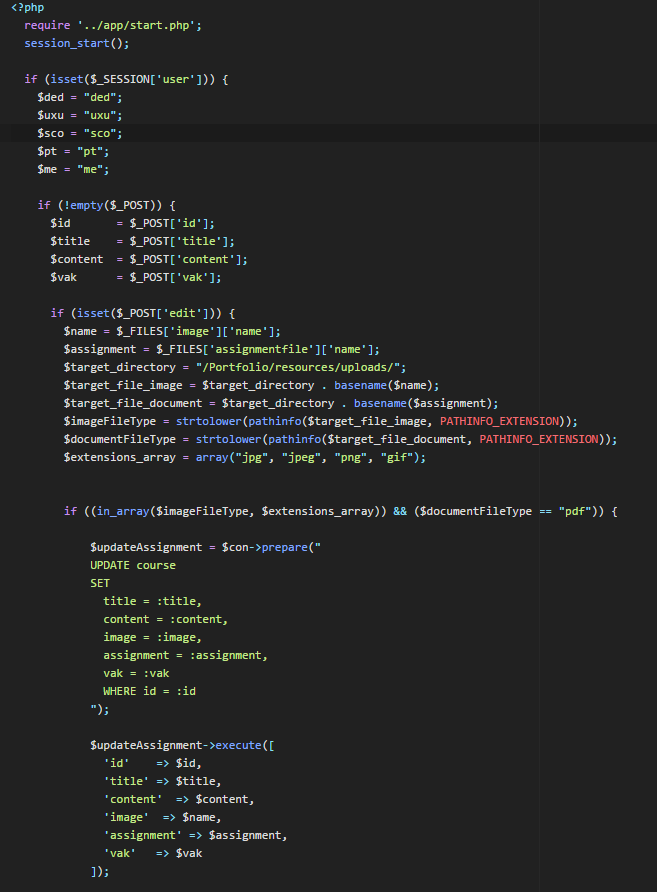
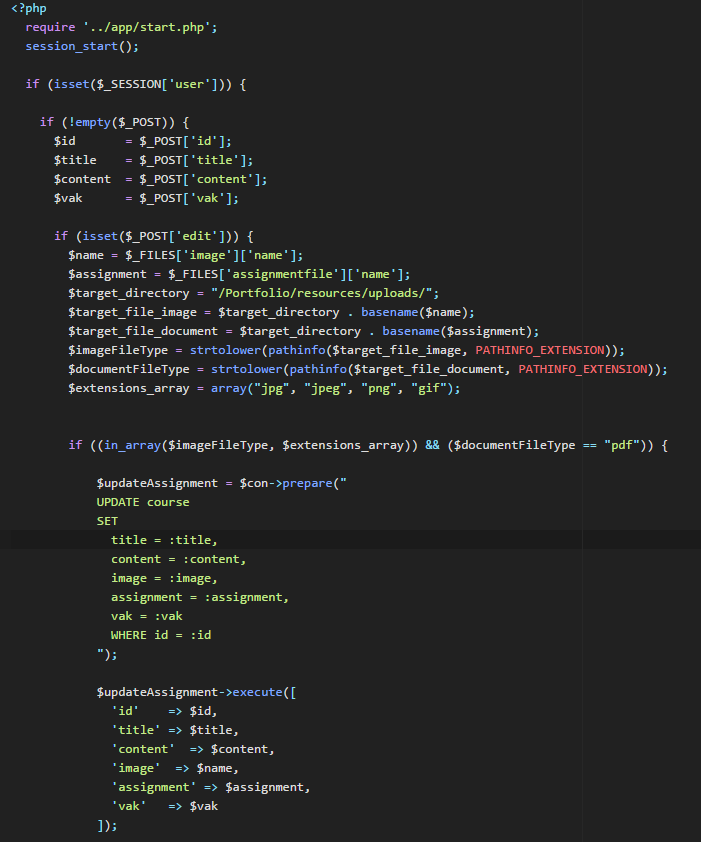
DED edits and minor changes

Changed region(s): [[0.0304, 0.0, 0.9437, 0.9881]]

diff --git a/stylesheets/style.css b/stylesheets/style.css
@@ -747,6 +747,11 @@ header .change .hamburger3 {
   margin-right: 30px;
 }
 
+/* line 172, ../sass/_pages.scss */
+.clearfix {
+  clear: both;
+}
+
 /* line 1, ../sass/_adminpanel.scss */
 .overview {
   display: flex;

diff --git a/sass/_pages.scss b/sass/_pages.scss
@@ -168,3 +168,7 @@
     }
   }
 }
+
+.clearfix {
+  clear:both;
+}

diff --git a/app/views/page/show.php b/app/views/page/show.php
@@ -6,7 +6,7 @@
 <?php case "ded": ?> <!-- DED -->
 
   <div class="fadeOnLoad dedpage">
-    <a href="https://github.com/DylanoH/portfolio" target="_blank" class="fa fa-github fa-2x">Link naar GitHub repo.</a>
+    <a href="https://github.com/DylanoH/portfolio" target="_blank" class="fa fa-github fa-1x"> <span>Link naar GitHub repo.</span></a>
     <div class="sprint1">
 
       <h2>Sprint 1</h2>
@@ -93,68 +93,76 @@
       <div class="code">
         <h3>Login</h3>
         <img src="<?php echo BASE_URL ?>/resources/uploads/logincode.png" class="codesnippit" alt="">
-        <p>asndakjsnd kjasndkj asnkjdnasndakjsnd kjasndkj asnkjdn kjas kjasn</p>
-        <p>asndakjsnd kjasndkj asnkjdnasndakjsnd kjasndkj asnkjdn kjas kjasn</p>
-        <p>asndakjsnd kjasndkj asnkjdnasndakjsnd kjasndkj asnkjdn kjas kjasn</p>
-        <p>asndakjsnd kjasndkj asnkjdnasndakjsnd kjasndkj asnkjdn kjas kjasn</p>
-        <p>asndakjsnd kjasndkj asnkjdnasndakjsnd kjasndkj asnkjdn kjas kjasn</p>
-        <p>asndakjsnd kjasndkj asnkjdnasndakjsnd kjasndkj asnkjdn kjas kjasn</p>
-        <p>asndakjsnd kjasndkj asnkjdnasndakjsnd kjasndkj asnkjdn kjas kjasn</p>
+        <p>Hier is te zien hoe ik mijn login script heb gemaakt.</p>
+        <p>Als eerste checked het script of het form is gesubmit met een "POST" method. Als dit gedaan is gaat het script verder.</p>
+        <p>Het ingevulde username en wachtwoord wordt opgeslagen in een variable.</p>
+        <p>Nu wordt er een database query uitgevoerd die het ID selecteerd van alle users waar de username en wachtwoord overeen komen met de ingevulde username en wachtwoord</p>
+        <p>Daarna worden de rijen geteld en opgeslagen met een true of false of er een rij is of niet.</p>
+        <p>Nu komt er een check die checked of het true of false is. Als het true is wordt er een session variable aangemaakt met de user. Als het false is komt er een error message.</p>
+        <p>Nu kan er overal waar ik zou willen een session gestart kunnen worden en checken of er een gebruiker is ingelogd of niet.</p>
       </div>
-      <div style="clear:both;"></div>
+      <div class="clearfix"></div>
       <div class="code">
         <h3>Delete</h3>
         <img src="<?php echo BASE_URL ?>/resources/uploads/delete.png" class="codesnippit" alt="">
-        <p>asndakjsnd kjasndkj asnkjdnasndakjsnd kjasndkj asnkjdn kjas kjasn</p>
-        <p>asndakjsnd kjasndkj asnkjdnasndakjsnd kjasndkj asnkjdn kjas kjasn</p>
+        <p>Dit is het klein scriptje om een opdracht te verwijderen uit de database.</p>
+        <p>Als er op een knop wordt geklikt wordt er een id meegegeven in de URL. Als eerste wordt er gechecked of er ook daadwerkelijk een ID is meegegeven.</p>
+        <p>Als dit zo is wordt er een query uitgevoerd die een hele rij verwijderd met dat ID.</p>
+
       </div>
-      <div style="clear:both;"></div>
+      <div class="clearfix"></div>
       <div class="code">
         <h3>Edit</h3>
         <img src="<?php echo BASE_URL ?>/resources/uploads/edit1.png" class="codesnippit" alt="">
         <img src="<?php echo BASE_URL ?>/resources/uploads/edit2.png" class="codesnippit" alt="">
-        <p>asndakjsnd kjasndkj asnkjdnasndakjsnd kjasndkj asnkjdn kjas kjasn</p>
-        <p>asndakjsnd kjasndkj asnkjdnasndakjsnd kjasndkj asnkjdn kjas kjasn</p>
+        <p>Het edit script is vooral een uitgebreide versie van het toevoegen van een pagina. In de html zit er vooral het verschil dat er text uit de database gehaald wordt en er neer zet.</p>
+        <p>Als de pagina niet leeg is worden er als eerste variablen gemaakt v</p>
+
       </div>
-      <div style="clear:both;"></div>
+      <div class="clearfix"></div>
       <div class="code">
         <h3>List</h3>
         <img src="<?php echo BASE_URL ?>/resources/uploads/list1.png" class="codesnippit" alt="">
         <img src="<?php echo BASE_URL ?>/resources/uploads/list2.png" class="codesnippit" alt="">
         <p>asndakjsnd kjasndkj asnkjdnasndakjsnd kjasndkj asnkjdn kjas kjasn</p>
       </div>
-      <div style="clear:both;"></div>
+      <div class="clearfix"></div>
       <div class="code">
         <h3>Page</h3>
         <img src="<?php echo BASE_URL ?>/resources/uploads/page.png" class="codesnippit" alt="">
         <p>asndakjsnd kjasndkj asnkjdnasndakjsnd kjasndkj asnkjdn kjas kjasn</p>
       </div>
-      <div style="clear:both;"></div>
-      <div class="code">
-        <h3>Page</h3>
-        <img src="<?php echo BASE_URL ?>/resources/uploads/page.png" class="codesnippit" alt="">
-        <p>asndakjsnd kjasndkj asnkjdnasndakjsnd kjasndkj asnkjdn kjas kjasn</p>
-      </div>
-      <div style="clear:both;"></div>
+      <div class="clearfix"></div>
       <div class="code">
         <h3>Fade in left</h3>
         <img src="<?php echo BASE_URL ?>/resources/uploads/fadeleft.png" class="codesnippit" alt="">
-        <p>asndakjsnd kjasndkj asnkjdnasndakjsnd kjasndkj asnkjdn kjas kjasn</p>
+        <p>Dit stukje code zorgt ervoor dat alle items met de fadeInLeft class verschijnen met een fade.</p>
+        <p>Bij ieder item wordt er gekeken naar de positie van de bovenkant van het item. </p>
+        <p>Ook word ter bij iedere scroll de positie bepaald van het scherm.</p>
+        <p>Dan wordt er gekeken of de positie van het scherm groter is dan de positie van de bovenkant van het item, en dan wordt de animatie uitgevoerd.</p>
+        <p>Ik heb de boven positie van een item nog -300 meegegeven zodat de animatie eerder gebeurd dan als je er pas op zit.</p>
       </div>
-      <div style="clear:both;"></div>
+      <div class="clearfix"></div>
       <div class="code">
         <h3>Fade on load</h3>
         <img src="<?php echo BASE_URL ?>/resources/uploads/fadeload.png" class="codesnippit" alt="">
-        <p>asndakjsnd kjasndkj asnkjdnasndakjsnd kjasndkj asnkjdn kjas kjasn</p>
+        <p>Dit is een stukje code dat ervoor zorgt dat opdrachten inladen zodra de pagina laad.</p>
+        <p>Eerst zorgt er een regel voor dat de fadeOnLoad class wordt verwijderd bij iedere opdracht na de eerste 3. Deze krijgen de class fadeInLeft.</p>
+        <p>Dit doet de :gt() functie. Dit staat eigenlijk voor Greater Than. In mijn geval is dit 2, dus na de derde (0, 1, 2).</p>
+        <p>Bij ieder item met de fadeOnLoad class veranderd de opacity naar 1 en de margin-left wordt weggehaald.</p>
+        <p>De setTimeOut() zorgt ervoor dat dit gebeurt na iedere aangegeven tijd (800 ms in mijn geval).</p>
       </div>
-      <div style="clear:both;"></div>
+      <div class="clearfix"></div>
       <div class="code">
         <h3>SCSS nest trap</h3>
         <img src="<?php echo BASE_URL ?>/resources/uploads/scss.png" class="codesnippit" alt="">
         <img src="<?php echo BASE_URL ?>/resources/uploads/css.png" class="codesnippit" alt="">
-        <p>asndakjsnd kjasndkj asnkjdnasndakjsnd kjasndkj asnkjdn kjas kjasn</p>
+        <p>SCSS is soort van uitbreiding voor CSS. SCSS geeft je de onder andere mogelijkheid om variablen aan te maken, functies te maken en nests te gebruiken.</p>
+        <p>Dit compile je dan om naar normaal CSS.</p>
+        <p>Ik ben zelf een beetje in de nest trap gevallen. Dit is door erg diep te gaan in de nests met styling. In SCSS lijkt dit heel fijn en goed te gaan, maar uiteindelijk zorgt dit voor extreem specifieken selectors.</p>
+        <p>Dit is in het algemeen niet per se een probleem, maar het kan er wel voor zorgen dat het minder overzichterlijk wordt en je mischien meer styling toevoegd dan nodig is.</p>
       </div>
-      <div style="clear:both;"></div>
+      <div class="clearfix"></div>
 
 
     </div>

diff --git a/app/views/admin/edit.php b/app/views/admin/edit.php
@@ -23,27 +23,27 @@
         <p>Vak</p>
 
         <input type="radio" name="vak" id="vak" value="uxu" <?php
-        if (e($assignment['vak']) == $uxu ) {
+        if (e($assignment['vak']) == "uxu" ) {
           echo 'checked = "checked"';
         }
         ?>></input> <span>uxu</span>
         <input type="radio" name="vak" id="vak" value="ded" <?php
-        if (e($assignment['vak']) == $ded ) {
+        if (e($assignment['vak']) == "ded" ) {
           echo 'checked = "checked"';
         }
         ?>></input> <span>ded</span>
         <input type="radio" name="vak" id="vak" value="sco" <?php
-        if (e($assignment['vak']) == $sco ) {
+        if (e($assignment['vak']) == "sco" ) {
           echo 'checked = "checked"';
         }
         ?>></input> <span>sco</span>
         <input type="radio" name="vak" id="vak" value="pt" <?php
-        if (e($assignment['vak']) == $pt ) {
+        if (e($assignment['vak']) == "pt" ) {
           echo 'checked = "checked"';
         }
         ?>></input> <span>pt</span>
         <input type="radio" name="vak" id="vak" value="me" <?php
-        if (e($assignment['vak']) == $me ) {
+        if (e($assignment['vak']) == "me" ) {
           echo 'checked = "checked"';
         }
         ?>></input> <span>me</span>

diff --git a/admin/login.php b/admin/login.php
@@ -4,11 +4,9 @@
   $error = "";
 
   if($_SERVER["REQUEST_METHOD"] == "POST") {
-     // username and password sent from form
 
      $username = e($_POST['username']);
      $password = e(md5($_POST['password']));
-
 
      $query = "
      SELECT id
@@ -21,8 +19,6 @@
        'username' => $username,
        'password' => $password
      ]);
-
-     $row = $loginAttempt->fetch(PDO::FETCH_ASSOC);
 
      $result = $loginAttempt->rowCount() ? true : false;
 
@@ -38,7 +34,6 @@
        $error = "Oeps, er ging iets mis.";
      }
   }
-
 
   require VIEW_ROOT . '/page/login.php';
 ?>

diff --git a/app/views/admin/list.php b/app/views/admin/list.php
@@ -23,6 +23,7 @@
   <?php endif; ?>
     </div>
 
-  <a href="<?php echo BASE_URL; ?>/admin/add.php">Add new assignment</a>
+    <a href="<?php echo BASE_URL; ?>/admin/add.php" class="addButton fa fa-plus fa-3x"></a>
+
 
 <?php require VIEW_ROOT . '/templates/footer.php'; ?>

diff --git a/admin/edit.php b/admin/edit.php
@@ -3,11 +3,6 @@
   session_start();
 
   if (isset($_SESSION['user'])) {
-    $ded = "ded";
-    $uxu = "uxu";
-    $sco = "sco";
-    $pt = "pt";
-    $me = "me";
 
     if (!empty($_POST)) {
       $id       = $_POST['id'];

diff --git a/page.php b/page.php
@@ -17,7 +17,6 @@
 
     $page = $page->fetch(PDO::FETCH_ASSOC);
 
-
     $vak = $_GET['page'];
     $content = $con->prepare("
       SELECT id, title, content, image, assignment
